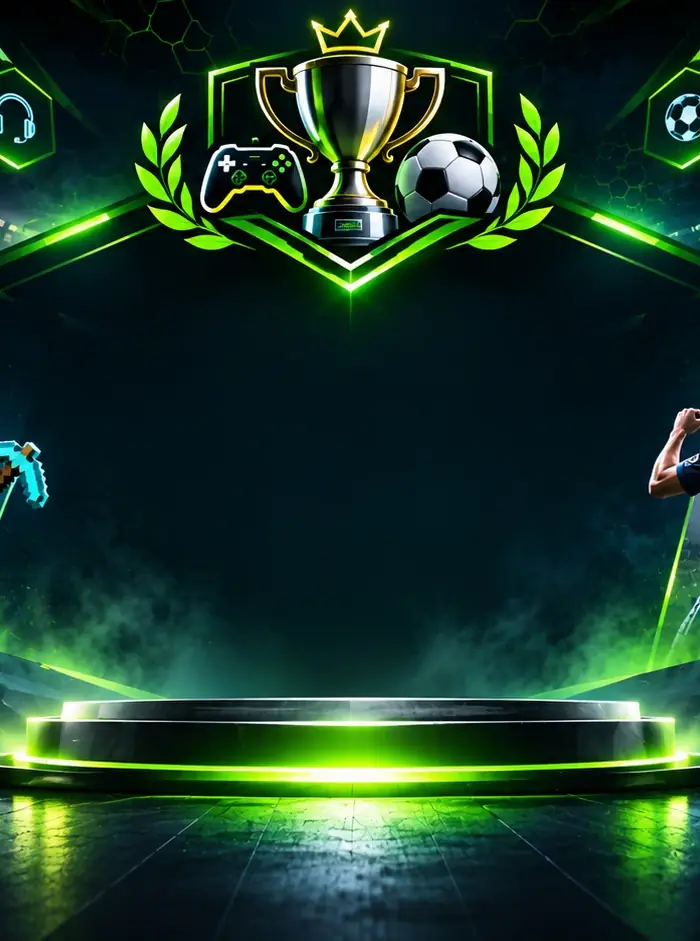
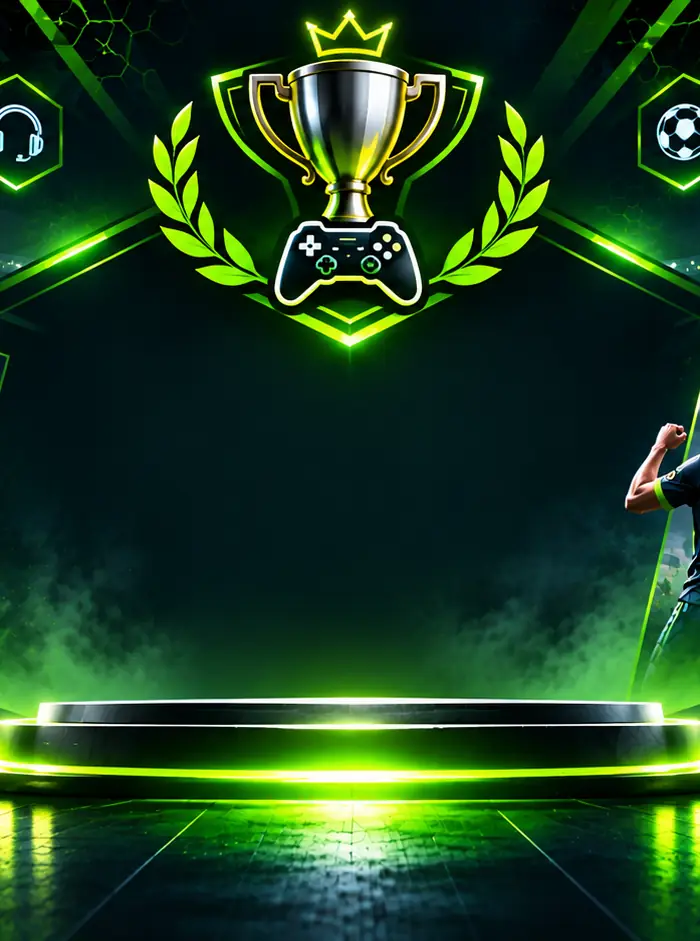
Fondo nuevo sin personajes con derechos (1.28.2)
Claude-Session: https://claude.ai/code/session_0177bHvScxrm5SX2Ds2DQqJB

diff --git a/app.js b/app.js
@@ -1997,7 +1997,7 @@ function confetti(){
 }
 
 /* ===== Versiones, novedades y tutorial ===== */
-const APP_VERSION='1.28.1';
+const APP_VERSION='1.28.2';
 const vcmp=(a,b)=>{const x=String(a).split('.').map(Number),y=String(b).split('.').map(Number);for(let i=0;i<3;i++){const d=(x[i]||0)-(y[i]||0);if(d)return d}return 0};
 const lsGet=k=>{try{return localStorage.getItem(k)}catch(e){return null}};
 const lsSet=(k,v)=>{try{localStorage.setItem(k,v)}catch(e){}};

diff --git a/sw.js b/sw.js
@@ -3,7 +3,7 @@
      si no hay conexión, usa la copia guardada (la app abre sin internet).
    - Letras, iconos y librería: primero la copia guardada (no cambian).
    - Las llamadas a Supabase NO se tocan nunca. */
-const VERSION = "1.28.1";
+const VERSION = "1.28.2";
 const CACHE = "torneazo-" + VERSION;
 const SHELL = [
   "./",
